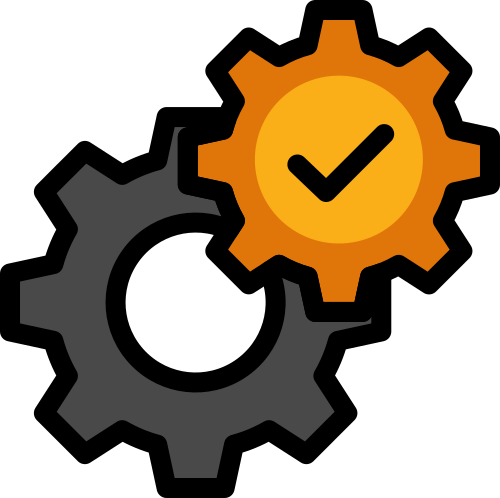
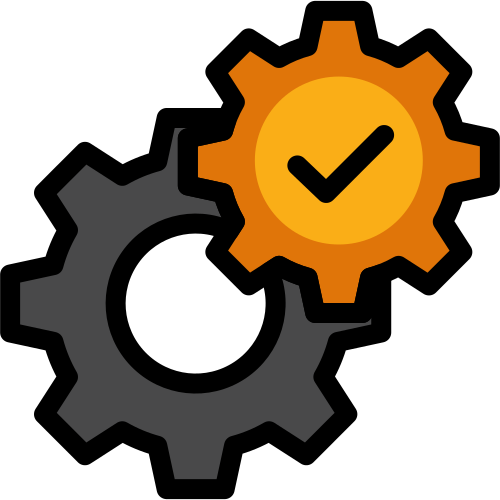
Actualizar el ícono del proyecto: cambiar de SVG a PNG

diff --git a/client/index.html b/client/index.html
@@ -2,7 +2,7 @@
 <html lang="en">
   <head>
     <meta charset="UTF-8" />
-    <link rel="icon" type="image/svg+xml" href="/icon.png" />
+    <link rel="icon" type="image/png" href="/icon.png" />
     <meta name="viewport" content="initial-scale=1, width=device-width" />
     <title>Obras MMA</title>
   </head>
